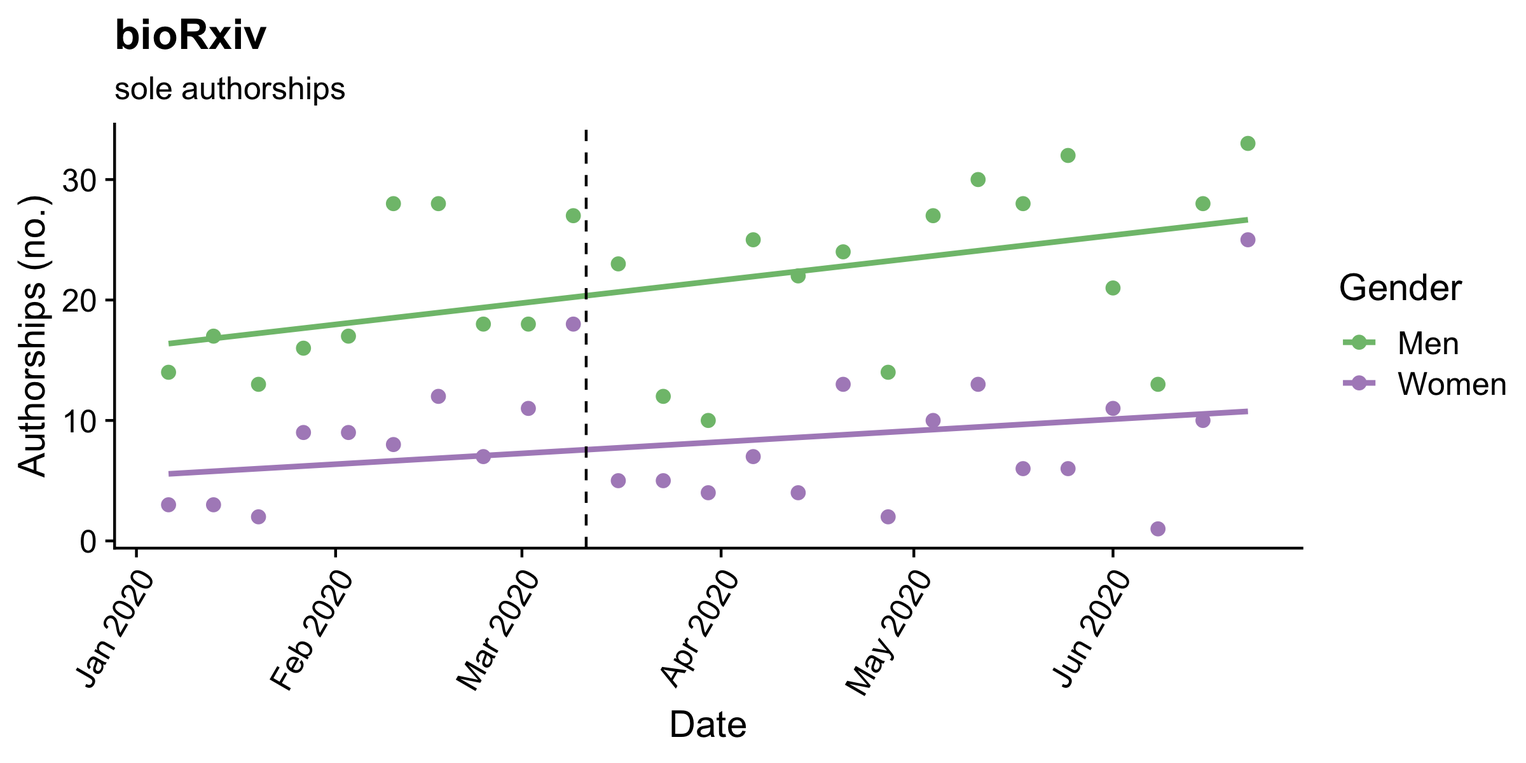
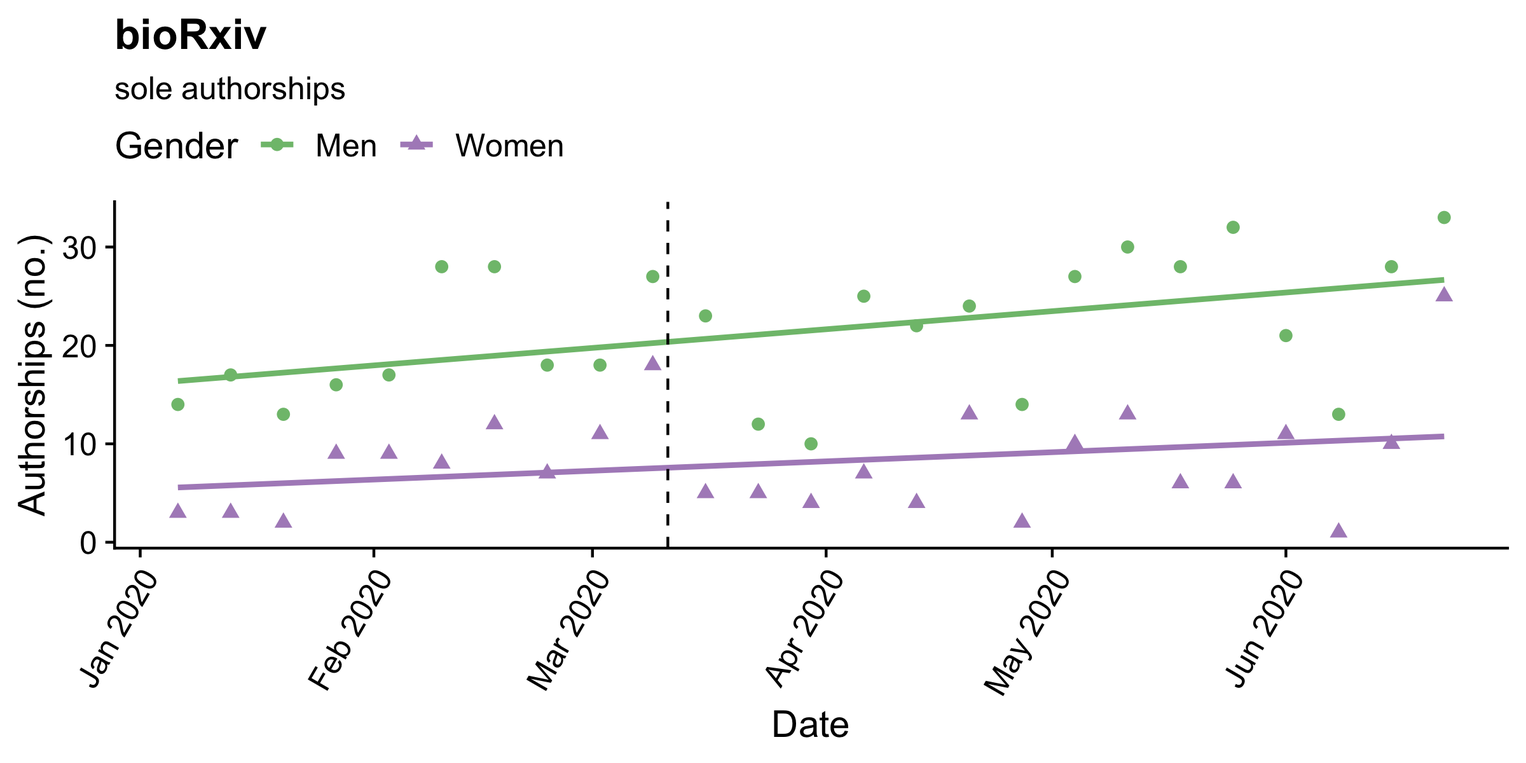
Update first author analyses to omit sole authors

diff --git a/README.md b/README.md
@@ -104,7 +104,8 @@ for(i in 1:length(df.full$authors)){
 }
 
 #Predict first author gender (includes sole authors)
-df.full$first.author.first.name <- word(df.full$first.author, 1)
+df.full$author.n <- str_count(df.full$authors, pattern = "\\|")+1 #Count author number
+df.full$first.author.first.name <- ifelse(df.full$author.n > 1, word(df.full$first.author, 1), NA)
 gender <- gender(df.full$first.author.first.name, method = "ssa") #Predict gender
 gender <- unique(gender[ , c(1,2,4)])
 getgender <- gender$gender
@@ -121,8 +122,8 @@ names(getgender) <- gender$name
 df.full$last.author.gender <- getgender[df.full$last.author.first.name]
 
 #Count middle authors for each gender
-df.full$female.mid.authors.n <- df.full$female.n - ifelse(df.full$first.author.gender == "female", 1, 0) - ifelse(df.full$last.author.gender == "female", 1, 0)
-df.full$male.mid.authors.n <- df.full$male.n - ifelse(df.full$first.author.gender == "male", 1, 0) - ifelse(df.full$last.author.gender == "male", 1, 0)
+df.full$female.mid.authors.n <- ifelse(df.full$author.n > 1, (df.full$female.n - ifelse(df.full$first.author.gender == "female", 1, 0) - ifelse(df.full$last.author.gender == "female", 1, 0)), 0)
+df.full$male.mid.authors.n <- ifelse(df.full$author.n > 1, (df.full$male.n - ifelse(df.full$first.author.gender == "male", 1, 0) - ifelse(df.full$last.author.gender == "male", 1, 0)), 0)
 
 df.full.output <- as.data.frame(apply(df.full,2,as.character)) 
 write.csv(df.full.output, "Data/arxiv_full_gender.csv") #Save data
@@ -145,6 +146,8 @@ for(i in 1:length(df.all2020$authors)){
   df.all2020$female.n[i] <- sum(as.numeric(str_count(as.character(tmp$gender), pattern = paste(sprintf("\\b%s\\b", "female")))), na.rm=TRUE)
 }
 
+df.all2020$author.n <- str_count(df.all2020$authors, pattern = "\\|")+1 #Count author number
+df.all2020$first.author.first.name <- ifelse(df.all2020$author.n > 1, word(df.all2020$first.author, 1), NA)
 df.all2020$first.author.first.name <- word(df.all2020$first.author, 1)
 gender <- gender(df.all2020$first.author.first.name, method = "ssa") #Predict gender
 gender <- unique(gender[ , c(1,2,4)])
@@ -152,7 +155,6 @@ getgender <- gender$gender
 names(getgender) <- gender$name
 df.all2020$first.author.gender <- getgender[df.all2020$first.author.first.name]
 
-df.all2020$author.n <- str_count(df.all2020$authors, pattern = "\\|")+1 #Count author number
 df.all2020$last.author.first.name <- ifelse(df.all2020$author.n > 1, word(df.all2020$last.author, 1), NA)
 gender <- gender(df.all2020$last.author.first.name, method = "ssa") #Predict gender
 gender <- unique(gender[ , c(1,2,4)])
@@ -160,8 +162,8 @@ getgender <- gender$gender
 names(getgender) <- gender$name
 df.all2020$last.author.gender <- getgender[df.all2020$last.author.first.name]
 
-df.all2020$female.mid.authors.n <- df.all2020$female.n - ifelse(df.all2020$first.author.gender == "female", 1, 0) - ifelse(df.all2020$last.author.gender == "female", 1, 0)
-df.all2020$male.mid.authors.n <- df.all2020$male.n - ifelse(df.all2020$first.author.gender == "male", 1, 0) - ifelse(df.all2020$last.author.gender == "male", 1, 0)
+df.all2020$female.mid.authors.n <- ifelse(df.all2020$author.n > 1, (df.all2020$female.n - ifelse(df.all2020$first.author.gender == "female", 1, 0) - ifelse(df.all2020$last.author.gender == "female", 1, 0)), 0)
+df.all2020$male.mid.authors.n <- ifelse(df.all2020$author.n > 1, (df.all2020$male.n - ifelse(df.all2020$first.author.gender == "male", 1, 0) - ifelse(df.all2020$last.author.gender == "male", 1, 0)), 0)
 
 df.all2020.output <- as.data.frame(apply(df.all2020,2,as.character))
 write.csv(df.all2020.output, "Data/arxiv_all2020_gender.csv") #Save data
@@ -276,7 +278,7 @@ first.authors <- subset(df.full, !is.na(first.author.gender)) %>% group_by(year,
 first.authors$per.dif.1920 <- c(first.authors[3,3]/first.authors[1,3],first.authors[4,3]/first.authors[2,3] ,first.authors[3,3]/first.authors[1,3], first.authors[4,3]/first.authors[2,3])
 first.authors$per.dif.1920 <- (as.numeric(first.authors$per.dif.1920)-1)*100 #Calculate percent change, 2020 over 2019
 
-p3 <- ggplot(data=first.authors, aes(fill=as.factor(year), y=n, x=first.author.gender))+geom_bar(position="dodge", stat="identity")+theme_cowplot()+xlab("Gender")+ylab("Authorships (no.)")+labs(fill="Year")+scale_fill_manual(values = colours1, labels=yr.labels)+theme(legend.position = "top", legend.justification="left", legend.title = element_blank())+ggplot2::annotate("text", x=c(1, 2),  y=c(2300,7800), label = paste0("+", round(first.authors$per.dif.1920[1:2], 1), "%"))+theme(legend.text=element_text(size=fontsize))+labs(title="arXiv", subtitle = "first authorships")+guides(fill=guide_legend(nrow=2))+scale_x_discrete(labels=c("Women", "Men"))
+p3 <- ggplot(data=first.authors, aes(fill=as.factor(year), y=n, x=first.author.gender))+geom_bar(position="dodge", stat="identity")+theme_cowplot()+xlab("Gender")+ylab("Authorships (no.)")+labs(fill="Year")+scale_fill_manual(values = colours1, labels=yr.labels)+theme(legend.position = "top", legend.justification="left", legend.title = element_blank())+ggplot2::annotate("text", x=c(1, 2),  y=c(2000,6550), label = paste0("+", round(first.authors$per.dif.1920[1:2], 1), "%"))+theme(legend.text=element_text(size=fontsize))+labs(title="arXiv", subtitle = "first authorships")+guides(fill=guide_legend(nrow=2))+scale_x_discrete(labels=c("Women", "Men"))
 p3
 ```
 
@@ -295,7 +297,7 @@ last.authors <- subset(df.full, !is.na(last.author.gender)) %>% group_by(year,la
 last.authors$per.dif.1920 <- c(last.authors[3,3]/last.authors[1,3],last.authors[4,3]/last.authors[2,3] ,last.authors[3,3]/last.authors[1,3], last.authors[4,3]/last.authors[2,3])
 last.authors$per.dif.1920 <- (as.numeric(last.authors$per.dif.1920)-1)*100 #Calculate percent change, 2020 over 2019
 
-p4 <- ggplot(data=last.authors, aes(fill=as.factor(year), y=n, x=last.author.gender))+geom_bar(position="dodge", stat="identity")+theme_cowplot()+xlab("Gender")+ylab("Authorships (no.)")+labs(fill="Year")+scale_fill_manual(values = colours1, labels=yr.labels)+theme(legend.position = "top", legend.justification="left", legend.title = element_blank())+ggplot2::annotate("text", x=c(1, 2),  y=c(1900,7050), label = paste0("+", round(last.authors$per.dif.1920[1:2], 1), "%"))+theme(legend.text=element_text(size=fontsize))+labs(title="arXiv", subtitle = "last authorships")+guides(fill=guide_legend(nrow=2))+scale_x_discrete(labels=c("Women", "Men"))
+p4 <- ggplot(data=last.authors, aes(fill=as.factor(year), y=n, x=last.author.gender))+geom_bar(position="dodge", stat="identity")+theme_cowplot()+xlab("Gender")+ylab("Authorships (no.)")+labs(fill="Year")+scale_fill_manual(values = colours1, labels=yr.labels)+theme(legend.position = "top", legend.justification="left", legend.title = element_blank())+ggplot2::annotate("text", x=c(1, 2),  y=c(1900,7020), label = paste0("+", round(last.authors$per.dif.1920[1:2], 1), "%"))+theme(legend.text=element_text(size=fontsize))+labs(title="arXiv", subtitle = "last authorships")+guides(fill=guide_legend(nrow=2))+scale_x_discrete(labels=c("Women", "Men"))
 p4
 ```
 
@@ -351,7 +353,7 @@ who <- "2020-03-11" #Date the WHO declared COVID-19 a pandemic, for reference
 arxiv.long$gender <- factor(arxiv.long$gender, rev(levels(as.factor(arxiv.long$gender))))
 colours2 = c("#7fbf7b","#af8dc3") #Set colours
 
-p6 <- ggplot(data=subset(arxiv.long, as.Date(week) >= "2020-01-01" & as.Date(week) <= "2020-06-28"), aes(x=as.Date(week), y=n, color=gender, shape=gender))+geom_point(size=2)+geom_smooth(method="lm", se=FALSE)+ylab("Authorships (no.)")+xlab("Date")+theme_cowplot()+scale_color_manual(name="Gender", labels=c("Men", "Women"), values=colours2)+labs(title="arXiv", subtitle="all authorships")+scale_shape_discrete(name="Gender", labels=c("Men", "Women"))+geom_vline(aes(xintercept=as.Date(who)), linetype="dashed")+scale_x_date(date_labels = "%b %Y")+theme(axis.text.x=element_text(angle=60, hjust=1))
+p6 <- ggplot(data=subset(arxiv.long, as.Date(week) >= "2020-01-01" & as.Date(week) <= "2020-06-28"), aes(x=as.Date(week), y=n, color=gender, shape=gender))+geom_point(size=2)+geom_smooth(method="lm", se=FALSE)+ylab("Authorships (no.)")+xlab("Date")+theme_cowplot()+scale_color_manual(name="Gender", labels=c("Men", "Women"), values=colours2)+labs(title="arXiv", subtitle="all authorships")+scale_shape_discrete(name="Gender", labels=c("Men", "Women"))+geom_vline(aes(xintercept=as.Date(who)), linetype="dashed")+scale_x_date(date_labels = "%b %Y")+theme(axis.text.x=element_text(angle=60, hjust=1), legend.position="top")
 p6
 ```
 
@@ -434,7 +436,7 @@ arxiv.sole.long <- gather(arxiv.sole, gender, n, female.n:male.n)
 colnames(arxiv.sole.long) <- c("week", "gender", "n")
 arxiv.sole.long$gender <- factor(arxiv.sole.long$gender, rev(levels(as.factor(arxiv.sole.long$gender))))
 
-p7 <- ggplot(data=subset(arxiv.sole.long, as.Date(week) >= "2020-01-01" & as.Date(week) <= "2020-06-28"), aes(x=as.Date(week), y=n, color=gender, shape=gender))+geom_point(size=2)+geom_smooth(method="lm", se=FALSE)+ylab("Authorships (no.)")+xlab("Date")+theme_cowplot()+scale_color_manual(name="Gender", labels=c("Men", "Women"), values=colours2)+labs(title="arXiv", subtitle="sole authorships")+scale_shape_discrete(name="Gender", labels=c("Men", "Women"))+geom_vline(aes(xintercept=as.Date(who)), linetype="dashed")+scale_x_date(date_labels = "%b %Y")+theme(axis.text.x=element_text(angle=60, hjust=1))
+p7 <- ggplot(data=subset(arxiv.sole.long, as.Date(week) >= "2020-01-01" & as.Date(week) <= "2020-06-28"), aes(x=as.Date(week), y=n, color=gender, shape=gender))+geom_point(size=2)+geom_smooth(method="lm", se=FALSE)+ylab("Authorships (no.)")+xlab("Date")+theme_cowplot()+scale_color_manual(name="Gender", labels=c("Men", "Women"), values=colours2)+labs(title="arXiv", subtitle="sole authorships")+scale_shape_discrete(name="Gender", labels=c("Men", "Women"))+geom_vline(aes(xintercept=as.Date(who)), linetype="dashed")+scale_x_date(date_labels = "%b %Y")+theme(axis.text.x=element_text(angle=60, hjust=1), legend.position="top")
 p7
 ```
 
@@ -513,7 +515,7 @@ arxiv.first <- as.data.frame(ungroup(subset(df.all2020, as.Date(submitted) >= "2
 colnames(arxiv.first) <- c("week", "gender", "n")
 arxiv.first$gender <- factor(arxiv.first$gender, rev(levels(as.factor(arxiv.first$gender))))
 
-p8 <- ggplot(data=subset(arxiv.first, as.Date(week) >= "2020-01-01" & as.Date(week) <= "2020-06-28"), aes(x=as.Date(week), y=n, color=gender))+geom_point(size=2)+geom_smooth(method="lm", se=FALSE)+ylab("Authorships (no.)")+xlab("Date")+theme_cowplot()+scale_color_manual(name="Gender", labels=c("Men", "Women"), values=colours2)+scale_shape_discrete(name="Gender", labels=c("Men", "Women"))+geom_vline(aes(xintercept=as.Date("2020-03-11")), linetype="dashed")+labs(title="arXiv", subtitle="first authorships")+scale_x_date(date_labels = "%b %Y")+theme(axis.text.x=element_text(angle=60, hjust=1))
+p8 <- ggplot(data=subset(arxiv.first, as.Date(week) >= "2020-01-01" & as.Date(week) <= "2020-06-28"), aes(x=as.Date(week), y=n, color=gender, shape=gender))+geom_point(size=2)+geom_smooth(method="lm", se=FALSE)+ylab("Authorships (no.)")+xlab("Date")+theme_cowplot()+scale_color_manual(name="Gender", labels=c("Men", "Women"), values=colours2)+scale_shape_discrete(name="Gender", labels=c("Men", "Women"))+geom_vline(aes(xintercept=as.Date("2020-03-11")), linetype="dashed")+labs(title="arXiv", subtitle="first authorships")+scale_x_date(date_labels = "%b %Y")+theme(axis.text.x=element_text(angle=60, hjust=1), legend.position="top")
 p8
 ```
 
@@ -589,7 +591,7 @@ arxiv.last <- as.data.frame(ungroup(subset(df.all2020, as.Date(submitted) >= "20
 colnames(arxiv.last) <- c("week", "gender", "n")
 arxiv.last$gender <- factor(arxiv.last$gender, rev(levels(as.factor(arxiv.last$gender))))
 
-p9 <- ggplot(data=subset(arxiv.last, as.Date(week) >= "2020-01-01" & as.Date(week) <= "2020-06-28"), aes(x=as.Date(week), y=n, color=gender))+geom_point(size=2)+geom_smooth(method="lm", se=FALSE)+ylab("Authorships (no.)")+xlab("Date")+theme_cowplot()+scale_color_manual(name="Gender", labels=c("Men", "Women"), values=colours2)+scale_shape_discrete(name="Gender", labels=c("Men", "Women"))+geom_vline(aes(xintercept=as.Date("2020-03-11")), linetype="dashed")+labs(title="arXiv", subtitle="last authorships")+scale_x_date(date_labels = "%b %Y")+theme(axis.text.x=element_text(angle=60, hjust=1))
+p9 <- ggplot(data=subset(arxiv.last, as.Date(week) >= "2020-01-01" & as.Date(week) <= "2020-06-28"), aes(x=as.Date(week), y=n, color=gender, shape=gender))+geom_point(size=2)+geom_smooth(method="lm", se=FALSE)+ylab("Authorships (no.)")+xlab("Date")+theme_cowplot()+scale_color_manual(name="Gender", labels=c("Men", "Women"), values=colours2)+scale_shape_discrete(name="Gender", labels=c("Men", "Women"))+geom_vline(aes(xintercept=as.Date("2020-03-11")), linetype="dashed")+labs(title="arXiv", subtitle="last authorships")+scale_x_date(date_labels = "%b %Y")+theme(axis.text.x=element_text(angle=60, hjust=1), legend.position="top")
 p9
 ```
 
@@ -666,7 +668,7 @@ arxiv.middle.long <- gather(arxiv.middle, gender, n, female.n:male.n)
 colnames(arxiv.middle.long) <- c("week", "gender", "n")
 arxiv.middle.long$gender <- factor(arxiv.middle.long$gender, rev(levels(as.factor(arxiv.middle.long$gender))))
 
-p10 <- ggplot(data=subset(arxiv.middle.long, as.Date(week) >= "2020-01-01" & as.Date(week) <= "2020-06-28"), aes(x=as.Date(week), y=n, color=gender, shape=gender))+geom_point(size=2)+geom_smooth(method="lm", se=FALSE)+ylab("Authorships (no.)")+xlab("Date")+theme_cowplot()+scale_color_manual(name="Gender", labels=c("Men", "Women"), values=colours2)+scale_shape_discrete(name="Gender", labels=c("Men", "Women"))+labs(title="arXiv", subtitle="middle authorships")+geom_vline(aes(xintercept=as.Date(who)), linetype="dashed")+scale_x_date(date_labels = "%b %Y")+theme(axis.text.x=element_text(angle=60, hjust=1))
+p10 <- ggplot(data=subset(arxiv.middle.long, as.Date(week) >= "2020-01-01" & as.Date(week) <= "2020-06-28"), aes(x=as.Date(week), y=n, color=gender, shape=gender))+geom_point(size=2)+geom_smooth(method="lm", se=FALSE)+ylab("Authorships (no.)")+xlab("Date")+theme_cowplot()+scale_color_manual(name="Gender", labels=c("Men", "Women"), values=colours2)+scale_shape_discrete(name="Gender", labels=c("Men", "Women"))+labs(title="arXiv", subtitle="middle authorships")+geom_vline(aes(xintercept=as.Date(who)), linetype="dashed")+scale_x_date(date_labels = "%b %Y")+theme(axis.text.x=element_text(angle=60, hjust=1), legend.position="top")
 p10
 ```
 
@@ -754,7 +756,7 @@ p12
 ![](README_files/figure-gfm/Combine%20visualizations%20for%20omnibus%20figures-2.png)<!-- -->
 
 ``` r
-save_plot("early2020_rxiv.png", p12, base_height=8, base_width=14, dpi=600)
+save_plot("early2020_arxiv.png", p12, base_height=8, base_width=14, dpi=600)
 ```
 
 ## bioRxiv submissions
@@ -924,7 +926,8 @@ for(i in 1:length(df.b.full$authors_full)){
 }
 
 #Predict first author gender (includes sole authors)
-df.b.full$first.author.first.name <- word(df.b.full$first.author, 1)
+df.b.full$author.n <- str_count(df.b.full$authors, pattern = "\\;")+1 #Count author number
+df.b.full$first.author.first.name <- ifelse(df.b.full$author.n > 1, word(trimws(as.character(df.b.full$first.author, 1))), NA)
 gender <- gender(df.b.full$first.author.first.name, method = "ssa") #Predict gender
 gender <- unique(gender[ , c(1,2,4)])
 getgender <- gender$gender
@@ -932,7 +935,6 @@ names(getgender) <- gender$name
 df.b.full$first.author.gender <- getgender[df.b.full$first.author.first.name]
 
 #Predict last author gender (omits sole authors)
-df.b.full$author.n <- str_count(df.b.full$authors, pattern = "\\;")+1 #Count author number
 df.b.full$last.author.first.name <- ifelse(df.b.full$author.n > 1, word(trimws(as.character(df.b.full$last.author, 1))), NA)
 gender <- gender(df.b.full$last.author.first.name, method = "ssa") #Predict gender
 gender <- unique(gender[ , c(1,2,4)])
@@ -941,8 +943,8 @@ names(getgender) <- gender$name
 df.b.full$last.author.gender <- getgender[df.b.full$last.author.first.name]
 
 #Count middle authors for each gender
-df.b.full$female.mid.authors.n <- df.b.full$female.n - ifelse(df.b.full$first.author.gender == "female", 1, 0) - ifelse(df.b.full$last.author.gender == "female", 1, 0)
-df.b.full$male.mid.authors.n <- df.b.full$male.n - ifelse(df.b.full$first.author.gender == "male", 1, 0) - ifelse(df.b.full$last.author.gender == "male", 1, 0)
+df.b.full$female.mid.authors.n <- ifelse(df.b.full$author.n > 1, (df.b.full$female.n - ifelse(df.b.full$first.author.gender == "female", 1, 0) - ifelse(df.b.full$last.author.gender == "female", 1, 0)), 0)
+df.b.full$male.mid.authors.n <- ifelse(df.b.full$author.n > 1, (df.b.full$male.n - ifelse(df.b.full$first.author.gender == "male", 1, 0) - ifelse(df.b.full$last.author.gender == "male", 1, 0)), 0)
 
 df.b.full <- df.b.full[!duplicated(df.b.full),] #Remove duplicated rows, if any
 df.b.full.output <- as.data.frame(apply(df.b.full,2,as.character)) 
@@ -967,6 +969,7 @@ for(i in 1:length(df.b.all2020$authors_full)){
 }
 
 #Predict first author gender (includes sole authors)
+df.b.all2020$author.n <- str_count(df.b.all2020$authors, pattern = "\\;")+1 #Count author number
 df.b.all2020$first.author.first.name <- word(df.b.all2020$first.author, 1)
 gender <- gender(df.b.all2020$first.author.first.name, method = "ssa") #Predict gender
 gender <- unique(gender[ , c(1,2,4)])
@@ -975,7 +978,6 @@ names(getgender) <- gender$name
 df.b.all2020$first.author.gender <- getgender[df.b.all2020$first.author.first.name]
 
 #Predict last author gender (omits sole authors)
-df.b.all2020$author.n <- str_count(df.b.all2020$authors, pattern = "\\;")+1 #Count author number
 df.b.all2020$last.author.first.name <- ifelse(df.b.all2020$author.n > 1, word(trimws(as.character(df.b.all2020$last.author, 1))), NA)
 gender <- gender(df.b.all2020$last.author.first.name, method = "ssa") #Predict gender
 gender <- unique(gender[ , c(1,2,4)])
@@ -984,8 +986,8 @@ names(getgender) <- gender$name
 df.b.all2020$last.author.gender <- getgender[df.b.all2020$last.author.first.name]
 
 #Count middle authors for each gender
-df.b.all2020$female.mid.authors.n <- df.b.all2020$female.n - ifelse(df.b.all2020$first.author.gender == "female", 1, 0) - ifelse(df.b.all2020$last.author.gender == "female", 1, 0)
-df.b.all2020$male.mid.authors.n <- df.b.all2020$male.n - ifelse(df.b.all2020$first.author.gender == "male", 1, 0) - ifelse(df.b.all2020$last.author.gender == "male", 1, 0)
+df.b.all2020$female.mid.authors.n <- ifelse(df.b.all2020$author.n > 1, (df.b.all2020$female.n - ifelse(df.b.all2020$first.author.gender == "female", 1, 0) - ifelse(df.b.all2020$last.author.gender == "female", 1, 0)),0)
+df.b.all2020$male.mid.authors.n <- ifelse(df.b.all2020$author.n > 1, (df.b.all2020$male.n - ifelse(df.b.all2020$first.author.gender == "male", 1, 0) - ifelse(df.b.all2020$last.author.gender == "male", 1, 0)), 0)
 
 df.b.all2020 <- df.b.all2020[!duplicated(df.b.all2020),] #Remove duplicated rows, if any
 df.b.all2020.output <- as.data.frame(apply(df.b.all2020,2,as.character)) 
@@ -1095,7 +1097,7 @@ first.authors <- subset(df.b.full, !is.na(first.author.gender)) %>% group_by(yea
 first.authors$per.dif.1920 <- c(first.authors[3,3]/first.authors[1,3],first.authors[4,3]/first.authors[2,3] ,first.authors[3,3]/first.authors[1,3], first.authors[4,3]/first.authors[2,3])
 first.authors$per.dif.1920 <- (as.numeric(first.authors$per.dif.1920)-1)*100 #Calculate percent change, 2020 over 2019
 
-p15 <- ggplot(data=first.authors, aes(fill=as.factor(year), y=n, x=first.author.gender))+geom_bar(position="dodge", stat="identity")+theme_cowplot()+xlab("Gender")+ylab("Authorships (no.)")+labs(fill="Year")+scale_fill_manual(values = colours1, labels=yr.labels)+theme(legend.position = "top", legend.justification="left", legend.title = element_blank())+ggplot2::annotate("text", x=c(1, 2),  y=c(1450,2000), label = paste0("+", round(first.authors$per.dif.1920[1:2], 1), "%"))+theme(legend.text=element_text(size=fontsize))+labs(title="bioRxiv", subtitle = "first authorships")+guides(fill=guide_legend(nrow=2))+scale_x_discrete(labels=c("Women", "Men"))
+p15 <- ggplot(data=first.authors, aes(fill=as.factor(year), y=n, x=first.author.gender))+geom_bar(position="dodge", stat="identity")+theme_cowplot()+xlab("Gender")+ylab("Authorships (no.)")+labs(fill="Year")+scale_fill_manual(values = colours1, labels=yr.labels)+theme(legend.position = "top", legend.justification="left", legend.title = element_blank())+ggplot2::annotate("text", x=c(1, 2),  y=c(1450,1920), label = paste0("+", round(first.authors$per.dif.1920[1:2], 1), "%"))+theme(legend.text=element_text(size=fontsize))+labs(title="bioRxiv", subtitle = "first authorships")+guides(fill=guide_legend(nrow=2))+scale_x_discrete(labels=c("Women", "Men"))
 p15
 ```
 
@@ -1104,7 +1106,7 @@ p15
 Both as a percent change and an absolute change year-over-year, there
 was a larger increase in the number of women first authorships than the
 number of men first authorships. In absolute terms, there were an
-additional 359 women first authorships and 299 men first authorships in
+additional 354 women first authorships and 291 men first authorships in
 Mar/Apr 2020, compared to Mar/Apr
 2019.
 
@@ -1115,7 +1117,7 @@ last.authors <- subset(df.b.full, !is.na(last.author.gender)) %>% group_by(year,
 last.authors$per.dif.1920 <- c(last.authors[3,3]/last.authors[1,3],last.authors[4,3]/last.authors[2,3] ,last.authors[3,3]/last.authors[1,3], last.authors[4,3]/last.authors[2,3])
 last.authors$per.dif.1920 <- (as.numeric(last.authors$per.dif.1920)-1)*100 #Calculate percent change, 2020 over 2019
 
-p16 <- ggplot(data=last.authors, aes(fill=as.factor(year), y=n, x=last.author.gender))+geom_bar(position="dodge", stat="identity")+theme_cowplot()+xlab("Gender")+ylab("Authorships (no.)")+labs(fill="Year")+scale_fill_manual(values = colours1, labels=yr.labels)+theme(legend.position = "top", legend.justification="left", legend.title = element_blank())+ggplot2::annotate("text", x=c(1, 2),  y=c(950,2550), label = paste0("+", round(last.authors$per.dif.1920[1:2], 1), "%"))+theme(legend.text=element_text(size=fontsize))+labs(title="bioRxiv", subtitle = "last authorships")+guides(fill=guide_legend(nrow=2))+scale_x_discrete(labels=c("Women", "Men"))
+p16 <- ggplot(data=last.authors, aes(fill=as.factor(year), y=n, x=last.author.gender))+geom_bar(position="dodge", stat="identity")+theme_cowplot()+xlab("Gender")+ylab("Authorships (no.)")+labs(fill="Year")+scale_fill_manual(values = colours1, labels=yr.labels)+theme(legend.position = "top", legend.justification="left", legend.title = element_blank())+ggplot2::annotate("text", x=c(1, 2),  y=c(950,2520), label = paste0("+", round(last.authors$per.dif.1920[1:2], 1), "%"))+theme(legend.text=element_text(size=fontsize))+labs(title="bioRxiv", subtitle = "last authorships")+guides(fill=guide_legend(nrow=2))+scale_x_discrete(labels=c("Women", "Men"))
 p16
 ```
 
@@ -1136,7 +1138,7 @@ colnames(middle.t) <- c("2019", "2020") #Fix column names
 middle.t$per.dif.1920 <- ((middle.t$`2020`-middle.t$`2019`)/(middle.t$`2019`))*100 #Calculate percent change, 2020 over 2019
 
 #Make figure comparing 2020 to 2019
-p17 <- ggplot(data=middle.long, aes(fill=as.factor(year), y=number, x=Gender))+geom_bar(position="dodge", stat="identity")+theme_cowplot()+xlab("Gender")+ylab("Authorships (no.)")+labs(fill="Year")+scale_fill_manual(values=colours1, labels=yr.labels)+theme(legend.position = "top", legend.justification="left", legend.title = element_blank(), legend.text = element_text(size=fontsize))+ggplot2::annotate("text", x=c(1, 2),  y=c(5200,7500), label = c(paste0("+", round(middle.t$per.dif.1920[1], 1), "%"), paste0("+", round(middle.t$per.dif.1920[2], 1), "%")))+labs(title="bioRxiv", subtitle="middle authorships")+guides(fill=guide_legend(nrow=2))+scale_x_discrete(labels=c("Women", "Men"))
+p17 <- ggplot(data=middle.long, aes(fill=as.factor(year), y=number, x=Gender))+geom_bar(position="dodge", stat="identity")+theme_cowplot()+xlab("Gender")+ylab("Authorships (no.)")+labs(fill="Year")+scale_fill_manual(values=colours1, labels=yr.labels)+theme(legend.position = "top", legend.justification="left", legend.title = element_blank(), legend.text = element_text(size=fontsize))+ggplot2::annotate("text", x=c(1, 2),  y=c(5180,7480), label = c(paste0("+", round(middle.t$per.dif.1920[1], 1), "%"), paste0("+", round(middle.t$per.dif.1920[2], 1), "%")))+labs(title="bioRxiv", subtitle="middle authorships")+guides(fill=guide_legend(nrow=2))+scale_x_discrete(labels=c("Women", "Men"))
 p17
 ```
 
@@ -1158,7 +1160,7 @@ biorxiv.long <- gather(biorxiv, gender, n, female.n:male.n)
 colnames(biorxiv.long) <- c("week", "gender", "n")
 biorxiv.long$gender <- factor(biorxiv.long$gender, rev(levels(as.factor(biorxiv.long$gender))))
 
-p18 <- ggplot(data=subset(biorxiv.long, as.Date(week) >= "2020-01-01" & as.Date(week) <= "2020-06-28"), aes(x=as.Date(week), y=n, color=gender))+geom_point(size=2)+geom_smooth(method="lm",se=FALSE)+ylab("Authorships (no.)")+xlab("Date")+theme_cowplot()+scale_color_manual(name="Gender", labels=c("Men", "Women"), values=colours2)+scale_shape_discrete(name="Gender", labels=c("Men", "Women"))+geom_vline(aes(xintercept=as.Date(who)), linetype="dashed")+labs(title="bioRxiv", subtitle="all authorships")+scale_x_date(date_labels = "%b %Y")+theme(axis.text.x=element_text(angle=60, hjust=1))
+p18 <- ggplot(data=subset(biorxiv.long, as.Date(week) >= "2020-01-01" & as.Date(week) <= "2020-06-28"), aes(x=as.Date(week), y=n, color=gender, shape=gender))+geom_point(size=2)+geom_smooth(method="lm",se=FALSE)+ylab("Authorships (no.)")+xlab("Date")+theme_cowplot()+scale_color_manual(name="Gender", labels=c("Men", "Women"), values=colours2)+scale_shape_discrete(name="Gender", labels=c("Men", "Women"))+geom_vline(aes(xintercept=as.Date(who)), linetype="dashed")+labs(title="bioRxiv", subtitle="all authorships")+scale_x_date(date_labels = "%b %Y")+theme(axis.text.x=element_text(angle=60, hjust=1), legend.position="top")
 p18
 ```
 
@@ -1236,7 +1238,7 @@ biorxiv.sole.long <- gather(biorxiv.sole, gender, n, female.n:male.n)
 colnames(biorxiv.sole.long) <- c("week", "gender", "n")
 biorxiv.sole.long$gender <- factor(biorxiv.sole.long$gender, rev(levels(as.factor(biorxiv.sole.long$gender))))
 
-p19 <- ggplot(data=subset(biorxiv.sole.long, as.Date(week) >= "2020-01-01" & as.Date(week) <= "2020-06-28"), aes(x=as.Date(week), y=n, color=gender))+geom_point(size=2)+geom_smooth(method="lm",se=FALSE)+ylab("Authorships (no.)")+xlab("Date")+theme_cowplot()+scale_color_manual(name="Gender", labels=c("Men", "Women"), values=colours2)+scale_shape_discrete(name="Gender", labels=c("Men", "Women"))+geom_vline(aes(xintercept=as.Date(who)), linetype="dashed")+labs(title="bioRxiv", subtitle="sole authorships")+scale_x_date(date_labels = "%b %Y")+theme(axis.text.x=element_text(angle=60, hjust=1))
+p19 <- ggplot(data=subset(biorxiv.sole.long, as.Date(week) >= "2020-01-01" & as.Date(week) <= "2020-06-28"), aes(x=as.Date(week), y=n, color=gender, shape=gender))+geom_point(size=2)+geom_smooth(method="lm",se=FALSE)+ylab("Authorships (no.)")+xlab("Date")+theme_cowplot()+scale_color_manual(name="Gender", labels=c("Men", "Women"), values=colours2)+scale_shape_discrete(name="Gender", labels=c("Men", "Women"))+geom_vline(aes(xintercept=as.Date(who)), linetype="dashed")+labs(title="bioRxiv", subtitle="sole authorships")+scale_x_date(date_labels = "%b %Y")+theme(axis.text.x=element_text(angle=60, hjust=1), legend.position="top")
 p19
 ```
 
@@ -1309,7 +1311,7 @@ biorxiv.first <- as.data.frame(ungroup(subset(df.b.all2020, as.Date(date) >= "20
 colnames(biorxiv.first) <- c("week", "gender", "n")
 biorxiv.first$gender <- factor(biorxiv.first$gender, rev(levels(as.factor(biorxiv.first$gender))))
 
-p20 <- ggplot(data=subset(biorxiv.first, as.Date(week) >= "2020-01-01" & as.Date(week) <= "2020-06-28"), aes(x=as.Date(week), y=n, color=gender))+geom_point(size=2)+geom_smooth(method="lm",se=FALSE)+ylab("Authorships (no.)")+xlab("Date")+theme_cowplot()+scale_color_manual(name="Gender", labels=c("Men", "Women"), values=colours2)+scale_shape_discrete(name="Gender", labels=c("Men", "Women"))+geom_vline(aes(xintercept=as.Date(who)), linetype="dashed")+labs(title="bioRxiv", subtitle="first authorships")+scale_x_date(date_labels = "%b %Y")+theme(axis.text.x=element_text(angle=60, hjust=1))
+p20 <- ggplot(data=subset(biorxiv.first, as.Date(week) >= "2020-01-01" & as.Date(week) <= "2020-06-28"), aes(x=as.Date(week), y=n, color=gender, shape=gender))+geom_point(size=2)+geom_smooth(method="lm",se=FALSE)+ylab("Authorships (no.)")+xlab("Date")+theme_cowplot()+scale_color_manual(name="Gender", labels=c("Men", "Women"), values=colours2)+scale_shape_discrete(name="Gender", labels=c("Men", "Women"))+geom_vline(aes(xintercept=as.Date(who)), linetype="dashed")+labs(title="bioRxiv", subtitle="first authorships")+scale_x_date(date_labels = "%b %Y")+theme(axis.text.x=element_text(angle=60, hjust=1), legend.position="top")
 p20
 ```
 
@@ -1382,7 +1384,7 @@ biorxiv.last <- as.data.frame(ungroup(subset(df.b.all2020, as.Date(date) >= "202
 colnames(biorxiv.last) <- c("week", "gender", "n")
 biorxiv.last$gender <- factor(biorxiv.last$gender, rev(levels(as.factor(biorxiv.last$gender))))
 
-p21 <- ggplot(data=subset(biorxiv.last, as.Date(week) >= "2020-01-01" & as.Date(week) <= "2020-06-28"), aes(x=as.Date(week), y=n, color=gender))+geom_point(size=2)+geom_smooth(method="lm",se=FALSE)+ylab("Authorships (no.)")+xlab("Date")+theme_cowplot()+scale_color_manual(name="Gender", labels=c("Men", "Women"), values=colours2)+scale_shape_discrete(name="Gender", labels=c("Men", "Women"))+geom_vline(aes(xintercept=as.Date(who)), linetype="dashed")+labs(title="bioRxiv", subtitle="last authorships")+scale_x_date(date_labels = "%b %Y")+theme(axis.text.x=element_text(angle=60, hjust=1))
+p21 <- ggplot(data=subset(biorxiv.last, as.Date(week) >= "2020-01-01" & as.Date(week) <= "2020-06-28"), aes(x=as.Date(week), y=n, color=gender, shape=gender))+geom_point(size=2)+geom_smooth(method="lm",se=FALSE)+ylab("Authorships (no.)")+xlab("Date")+theme_cowplot()+scale_color_manual(name="Gender", labels=c("Men", "Women"), values=colours2)+scale_shape_discrete(name="Gender", labels=c("Men", "Women"))+geom_vline(aes(xintercept=as.Date(who)), linetype="dashed")+labs(title="bioRxiv", subtitle="last authorships")+scale_x_date(date_labels = "%b %Y")+theme(axis.text.x=element_text(angle=60, hjust=1),legend.position="top")
 p21
 ```
 
@@ -1458,7 +1460,7 @@ biorxiv.middle.long <- gather(biorxiv.middle, gender, n, female.n:male.n)
 colnames(biorxiv.middle.long) <- c("week", "gender", "n")
 biorxiv.middle.long$gender <- factor(biorxiv.middle.long$gender, rev(levels(as.factor(biorxiv.middle.long$gender))))
 
-p22 <- ggplot(data=subset(biorxiv.middle.long, as.Date(week) >= "2020-01-01" & as.Date(week) <= "2020-06-28"), aes(x=as.Date(week),y=n, color=gender))+geom_point(size=2)+theme_cowplot()+geom_smooth(method="lm",se=FALSE)+ylab("Authorships (no.)")+xlab("Date")+scale_color_manual(name="Gender", labels=c("Men", "Women"), values=colours2)+scale_shape_discrete(name="Gender", labels=c("Men", "Women"))+geom_vline(aes(xintercept=as.Date(who)), linetype="dashed")+labs(title="bioRxiv", subtitle="middle authorships")+scale_x_date(date_labels = "%b %Y")+theme(axis.text.x=element_text(angle=60, hjust=1))
+p22 <- ggplot(data=subset(biorxiv.middle.long, as.Date(week) >= "2020-01-01" & as.Date(week) <= "2020-06-28"), aes(x=as.Date(week),y=n, color=gender, shape=gender))+geom_point(size=2)+theme_cowplot()+geom_smooth(method="lm",se=FALSE)+ylab("Authorships (no.)")+xlab("Date")+scale_color_manual(name="Gender", labels=c("Men", "Women"), values=colours2)+scale_shape_discrete(name="Gender", labels=c("Men", "Women"))+geom_vline(aes(xintercept=as.Date(who)), linetype="dashed")+labs(title="bioRxiv", subtitle="middle authorships")+scale_x_date(date_labels = "%b %Y")+theme(axis.text.x=element_text(angle=60, hjust=1), legend.position="top")
 p22
 ```
 
